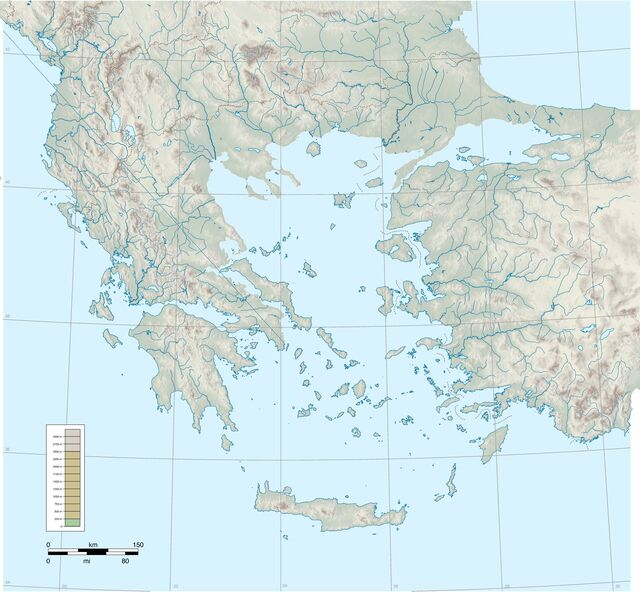
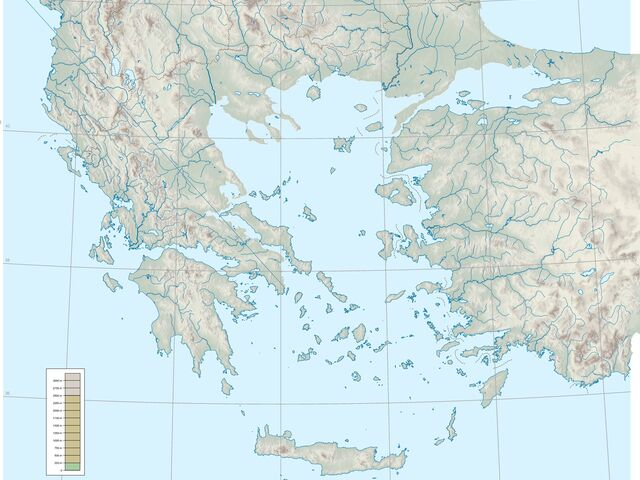
EX1: website: the Gosper curve replaces the world map (2:1 left white bars); Greece cropped to 4:3

diff --git a/xtask/src/site.rs b/xtask/src/site.rs
@@ -314,8 +314,8 @@ pub fn landing() -> String {
 <figure><a href="{REPO}/tree/main/examples/clifford-attractor"><img src="examples/clifford-attractor.jpg" width="640" height="495" alt="A Clifford attractor in rainbow colours on black" loading="lazy"></a><figcaption>Clifford attractor: 250,000 dots</figcaption></figure>
 <figure><a href="{REPO}/tree/main/examples/penrose-tiling"><img src="examples/penrose-tiling.jpg" width="640" height="489" alt="A Penrose tiling of gold and teal rhombs" loading="lazy"></a><figcaption>Penrose tiling: 7,615 rhombs</figcaption></figure>
 <figure><a href="{REPO}/tree/main/examples/apollonian-gasket"><img src="examples/apollonian-gasket.jpg" width="640" height="640" alt="An Apollonian gasket: circles inside circles, coloured by generation" loading="lazy"></a><figcaption>Apollonian gasket: 4,221 circles</figcaption></figure>
-<figure><a href="{REPO}/tree/main/examples/ne-countries"><img src="examples/ne-countries.jpg" width="640" height="320" alt="A world map with coloured countries" loading="lazy"></a><figcaption>World map at 1:10m, imported from Natural Earth</figcaption></figure>
-<figure><a href="{REPO}/tree/main/examples/greece"><img src="examples/greece.jpg" width="640" height="592" alt="A topographic map of Greece and the Aegean with relief shading" loading="lazy"></a><figcaption>Topographic map of Greece, imported from SVG</figcaption></figure>
+<figure><a href="{REPO}/tree/main/examples/gosper-curve"><img src="examples/gosper-curve.jpg" width="640" height="495" alt="A Gosper curve: one continuous line folded into a snowflake-like island, coloured like a rainbow" loading="lazy"></a><figcaption>Gosper curve: one line of 16,808 points</figcaption></figure>
+<figure><a href="{REPO}/tree/main/examples/greece"><img src="examples/greece.jpg" width="640" height="480" alt="A topographic map of Greece and the Aegean with relief shading" loading="lazy"></a><figcaption>Topographic map of Greece, imported from SVG</figcaption></figure>
 </div>
 </section>
 

diff --git a/ASSETS.md b/ASSETS.md
@@ -16,7 +16,7 @@ fallback.
 | `docs/images/examples/apollonian-gasket.jpg` | Fabian Hassler (original work) | this repository (`examples/apollonian-gasket/`) | MIT OR Apache-2.0 | Website thumbnail (640 px) of the example's preview |
 | `docs/images/examples/greece.jpg` | Future Perfect at Sunrise (map); RustFig's rendering | this repository (`examples/greece/`); original https://commons.wikimedia.org/wiki/File:Greece_large_topographic_basemap.svg | Public domain | Website thumbnail (640 px) of the example's preview |
 | `docs/images/examples/double-slit.jpg` | Fabian Hassler (original work) | this repository (`examples/gallery/double-slit.png`) | MIT OR Apache-2.0 | Website thumbnail (640 px) of the science gallery's double-slit drawing |
-| `docs/images/examples/ne-countries.jpg` | Natural Earth (map data); RustFig's rendering | this repository (`examples/ne-countries/`); data https://github.com/nvkelso/natural-earth-vector | Public domain | Website thumbnail (640 px) of the example's preview |
+| `docs/images/examples/gosper-curve.jpg` | Fabian Hassler (original work) | this repository (`examples/gosper-curve/`) | MIT OR Apache-2.0 | Website thumbnail (640 px) of the example's preview |
 | `examples/apollonian-gasket/` | Fabian Hassler (original work, generated from mathematics by `cargo xtask examples`) | this repository (`xtask/src/examples`) | MIT OR Apache-2.0 | Example drawing: Apollonian gasket, 4,221 circles (`.fig.gz`, PNG preview); every file below this folder is covered by this row |
 | `examples/clifford-attractor/` | Fabian Hassler (original work, generated from mathematics by `cargo xtask examples`) | this repository (`xtask/src/examples`) | MIT OR Apache-2.0 | Example drawing: Clifford attractor, 250,000 dots (`.fig.gz`, PNG preview); every file below this folder is covered by this row |
 | `examples/gosper-curve/` | Fabian Hassler (original work, generated from mathematics by `cargo xtask examples`) | this repository (`xtask/src/examples`) | MIT OR Apache-2.0 | Example drawing: Gosper curve of order 5 (`.fig.gz`, PNG preview); every file below this folder is covered by this row |
